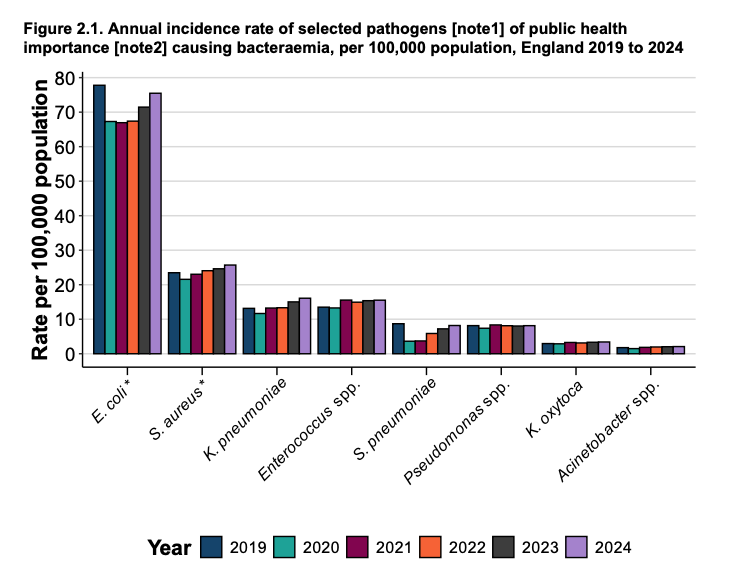
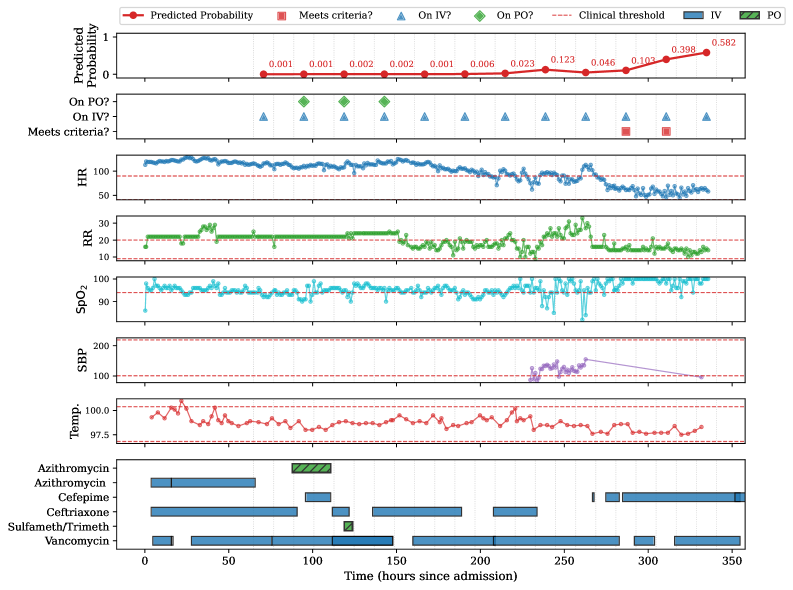
GITBOOK-70: No subject

Changed region(s): [[0.0, 0.0, 0.9933, 1.0], [0.9312, 0.6875, 0.9622, 0.75], [0.6208, 0.8438, 0.6829, 0.875]]

diff --git a/decisions/primitivo/arxiv-2026-paper.md b/decisions/primitivo/arxiv-2026-paper.md
@@ -1,0 +1,17 @@
+---
+description: Arxiv pre-print
+---
+
+# Arxiv 2026 paper
+
+{% hint style="info" %}
+Please see [Arxiv](https://arxiv.org/abs/2603.08242) for the paper including the PDF
+{% endhint %}
+
+Timely transition from intravenous (IV) to oral antibiotic therapy shortens hospital stays, reduces catheter-related infections, and lowers healthcare costs, yet one in five patients in England remain on IV antibiotics despite meeting switching criteria. Clinical decision support systems can improve switching rates, but approaches that learn from historical decisions reproduce the delays and inconsistencies of routine practice. We propose using neural processes to model vital sign trajectories probabilistically, predicting switch-readiness by comparing forecasts against clinical guidelines rather than learning from past actions, and ranking patients to prioritise clinical review. The design yields interpretable outputs, adapts to updated guidelines without retraining, and preserves clinical judgement. Validated on MIMIC-IV (US intensive care, 6,333 encounters) and UCLH (a large urban academic UK hospital group, 10,584 encounters), the system selects 2.2-3.2$$×$$ more relevant patients than random. Our results demonstrate that forecasting patient physiology offers a principled foundation for decision support in antibiotic stewardship.
+
+<figure><img src="../../.gitbook/assets/image.png" alt=""><figcaption></figcaption></figure>
+
+Figure 5: Example encounter from the MIMIC test set illustrating the intended functioning of the system. The panels show (from top to bottom): predicted switch-readiness probabilities from the NP-tuned model; labels indicating oral (PO) and IV antibiotic prescriptions and whether clinical criteria are satisfied in each forecast window; measured vital signs with clinical thresholds for switch-readiness overlaid; and antibiotic prescription timelines, with colour and pattern indicating administration route. Grey vertical lines demarcate daily 12-hour forecast windows. Forecasts begin 48 hours after admission to ensure sufficient historical data for prediction. Variable Abbreviations: HR (Heart Rate), RR (Respiratory Rate), SpO2 (Oxygen Saturation), SBP (Systolic Blood Pressure), Temp. (Temperature). Antibiotic Abbreviations: Sulfameth/Trimeth (Sulfamethoxazole-Trimethoprim).
+
+<br>

diff --git a/SUMMARY.md b/SUMMARY.md
@@ -22,6 +22,7 @@
     * [Quick reference](decisions/portuges/who-does-what/quick-reference.md)
 * [Primitivo](decisions/primitivo/README.md)
   * [ML4H 2025 paper](decisions/primitivo/ml4h-2025-paper.md)
+  * [Arxiv 2026 paper](decisions/primitivo/arxiv-2026-paper.md)
 
 ## Understanding
 
